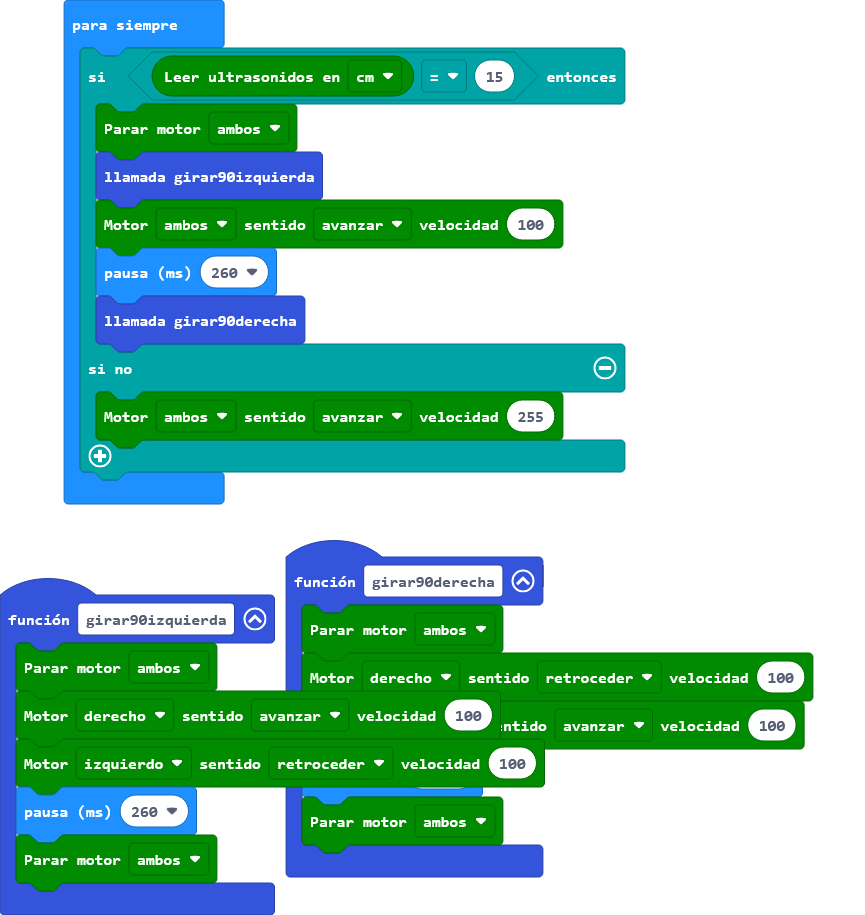
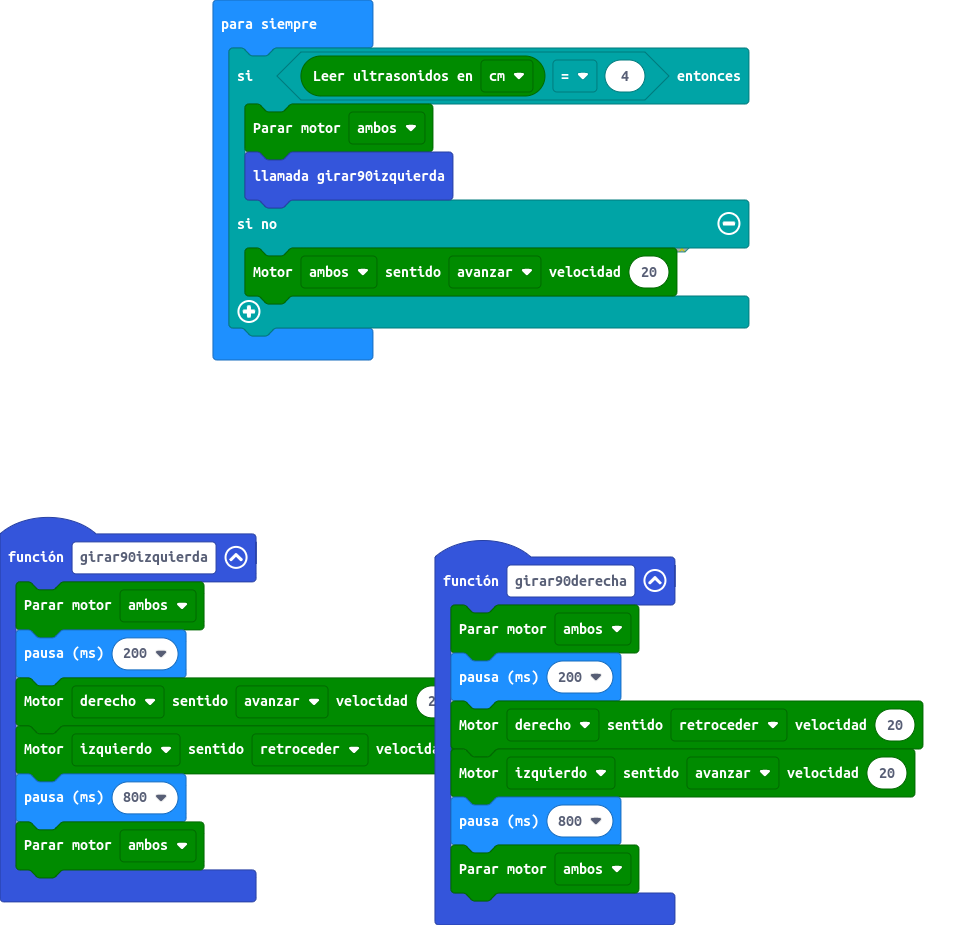
yihdgfyhrf

diff --git a/main.ts b/main.ts
@@ -1,25 +1,24 @@
 function girar90derecha () {
     maqueen.motorStop(maqueen.Motors.All)
-    maqueen.motorRun(maqueen.Motors.M2, maqueen.Dir.CCW, 100)
-    maqueen.motorRun(maqueen.Motors.M1, maqueen.Dir.CW, 100)
-    basic.pause(260)
+    basic.pause(200)
+    maqueen.motorRun(maqueen.Motors.M2, maqueen.Dir.CCW, 20)
+    maqueen.motorRun(maqueen.Motors.M1, maqueen.Dir.CW, 20)
+    basic.pause(800)
     maqueen.motorStop(maqueen.Motors.All)
 }
 function girar90izquierda () {
     maqueen.motorStop(maqueen.Motors.All)
-    maqueen.motorRun(maqueen.Motors.M2, maqueen.Dir.CW, 100)
-    maqueen.motorRun(maqueen.Motors.M1, maqueen.Dir.CCW, 100)
-    basic.pause(260)
+    basic.pause(200)
+    maqueen.motorRun(maqueen.Motors.M2, maqueen.Dir.CW, 20)
+    maqueen.motorRun(maqueen.Motors.M1, maqueen.Dir.CCW, 20)
+    basic.pause(800)
     maqueen.motorStop(maqueen.Motors.All)
 }
 basic.forever(function () {
-    if (maqueen.Ultrasonic(PingUnit.Centimeters) == 15) {
+    if (maqueen.Ultrasonic(PingUnit.Centimeters) == 4) {
         maqueen.motorStop(maqueen.Motors.All)
         girar90izquierda()
-        maqueen.motorRun(maqueen.Motors.All, maqueen.Dir.CW, 100)
-        basic.pause(260)
-        girar90derecha()
     } else {
-        maqueen.motorRun(maqueen.Motors.All, maqueen.Dir.CW, 255)
+        maqueen.motorRun(maqueen.Motors.All, maqueen.Dir.CW, 20)
     }
 })
